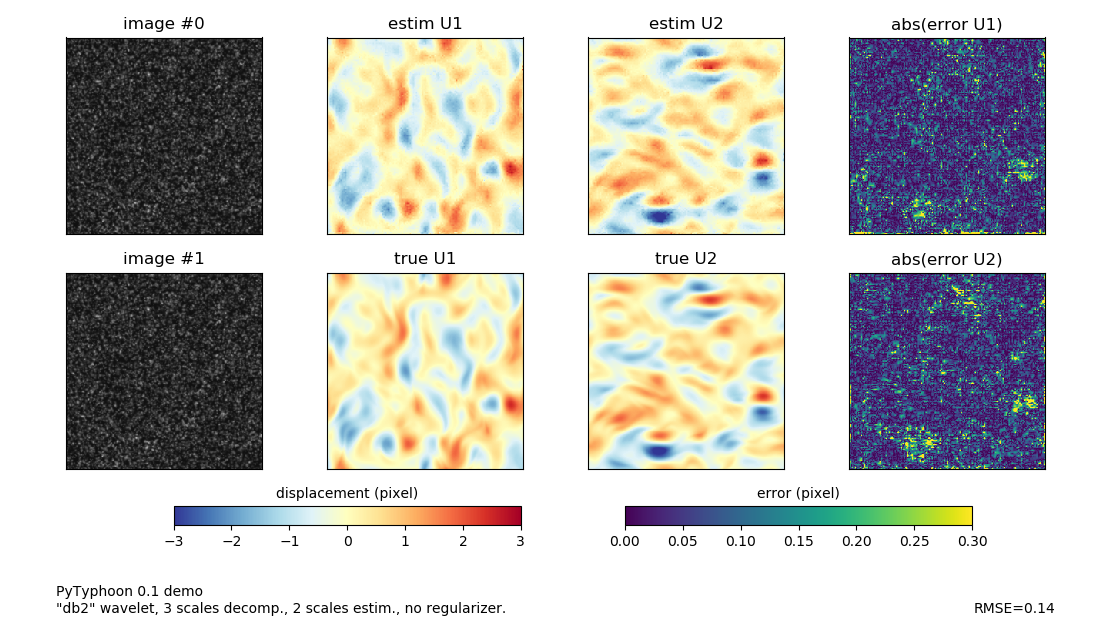
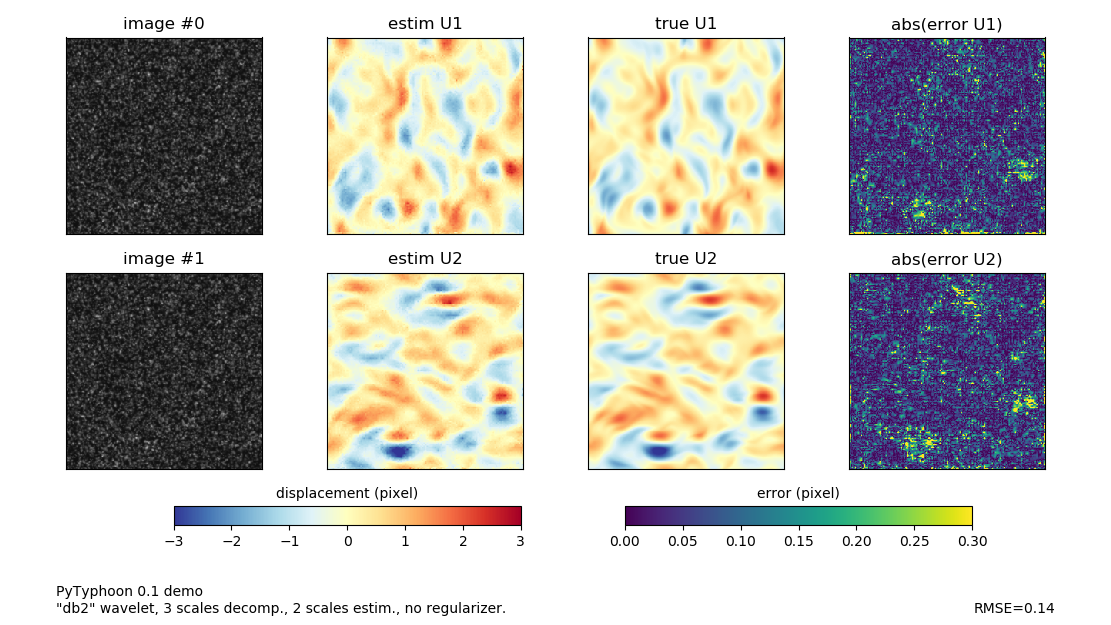
fixed demo

Changed region(s): [[0.2754, 0.3952, 0.4896, 0.76], [0.5203, 0.0304, 0.7039, 0.3952]]

diff --git a/pytyphoon.py b/pytyphoon.py
@@ -335,7 +335,7 @@ if __name__=="__main__":
             ax.set_xticks([])
             ax.set_yticks([])
         # velocity fields
-        for ax, var, label in zip(axes[:,1:-1].T.flat,
+        for ax, var, label in zip(axes[:,1:-1].flat,
                                   [U1, V1, U2, V2],
                                   ['estim U1', 'true U1', 'estim U2', 'true U2']):
             pf = ax.imshow(var, vmin=-3., vmax=3., interpolation='nearest', cmap='RdYlBu_r')
